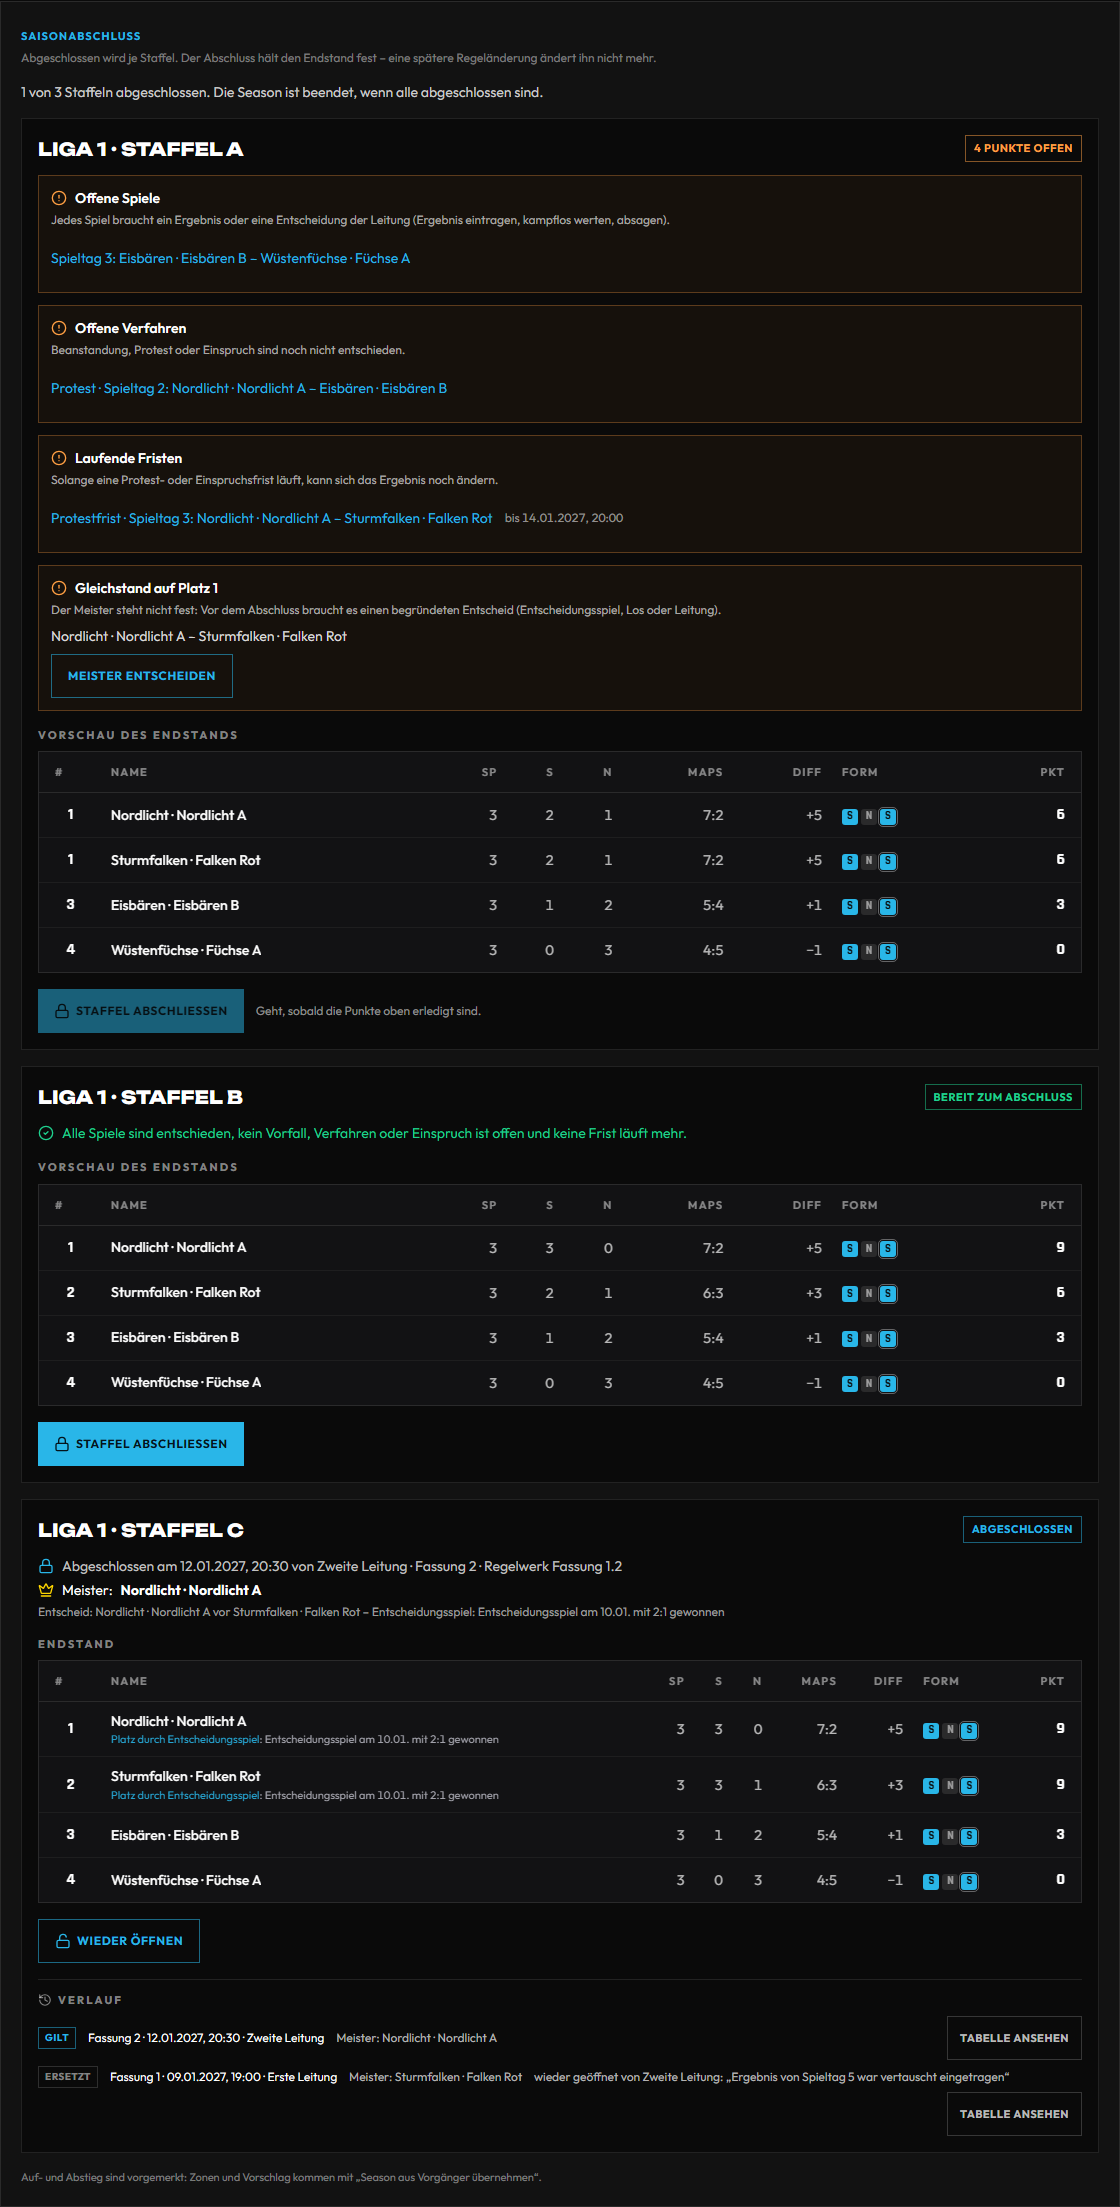
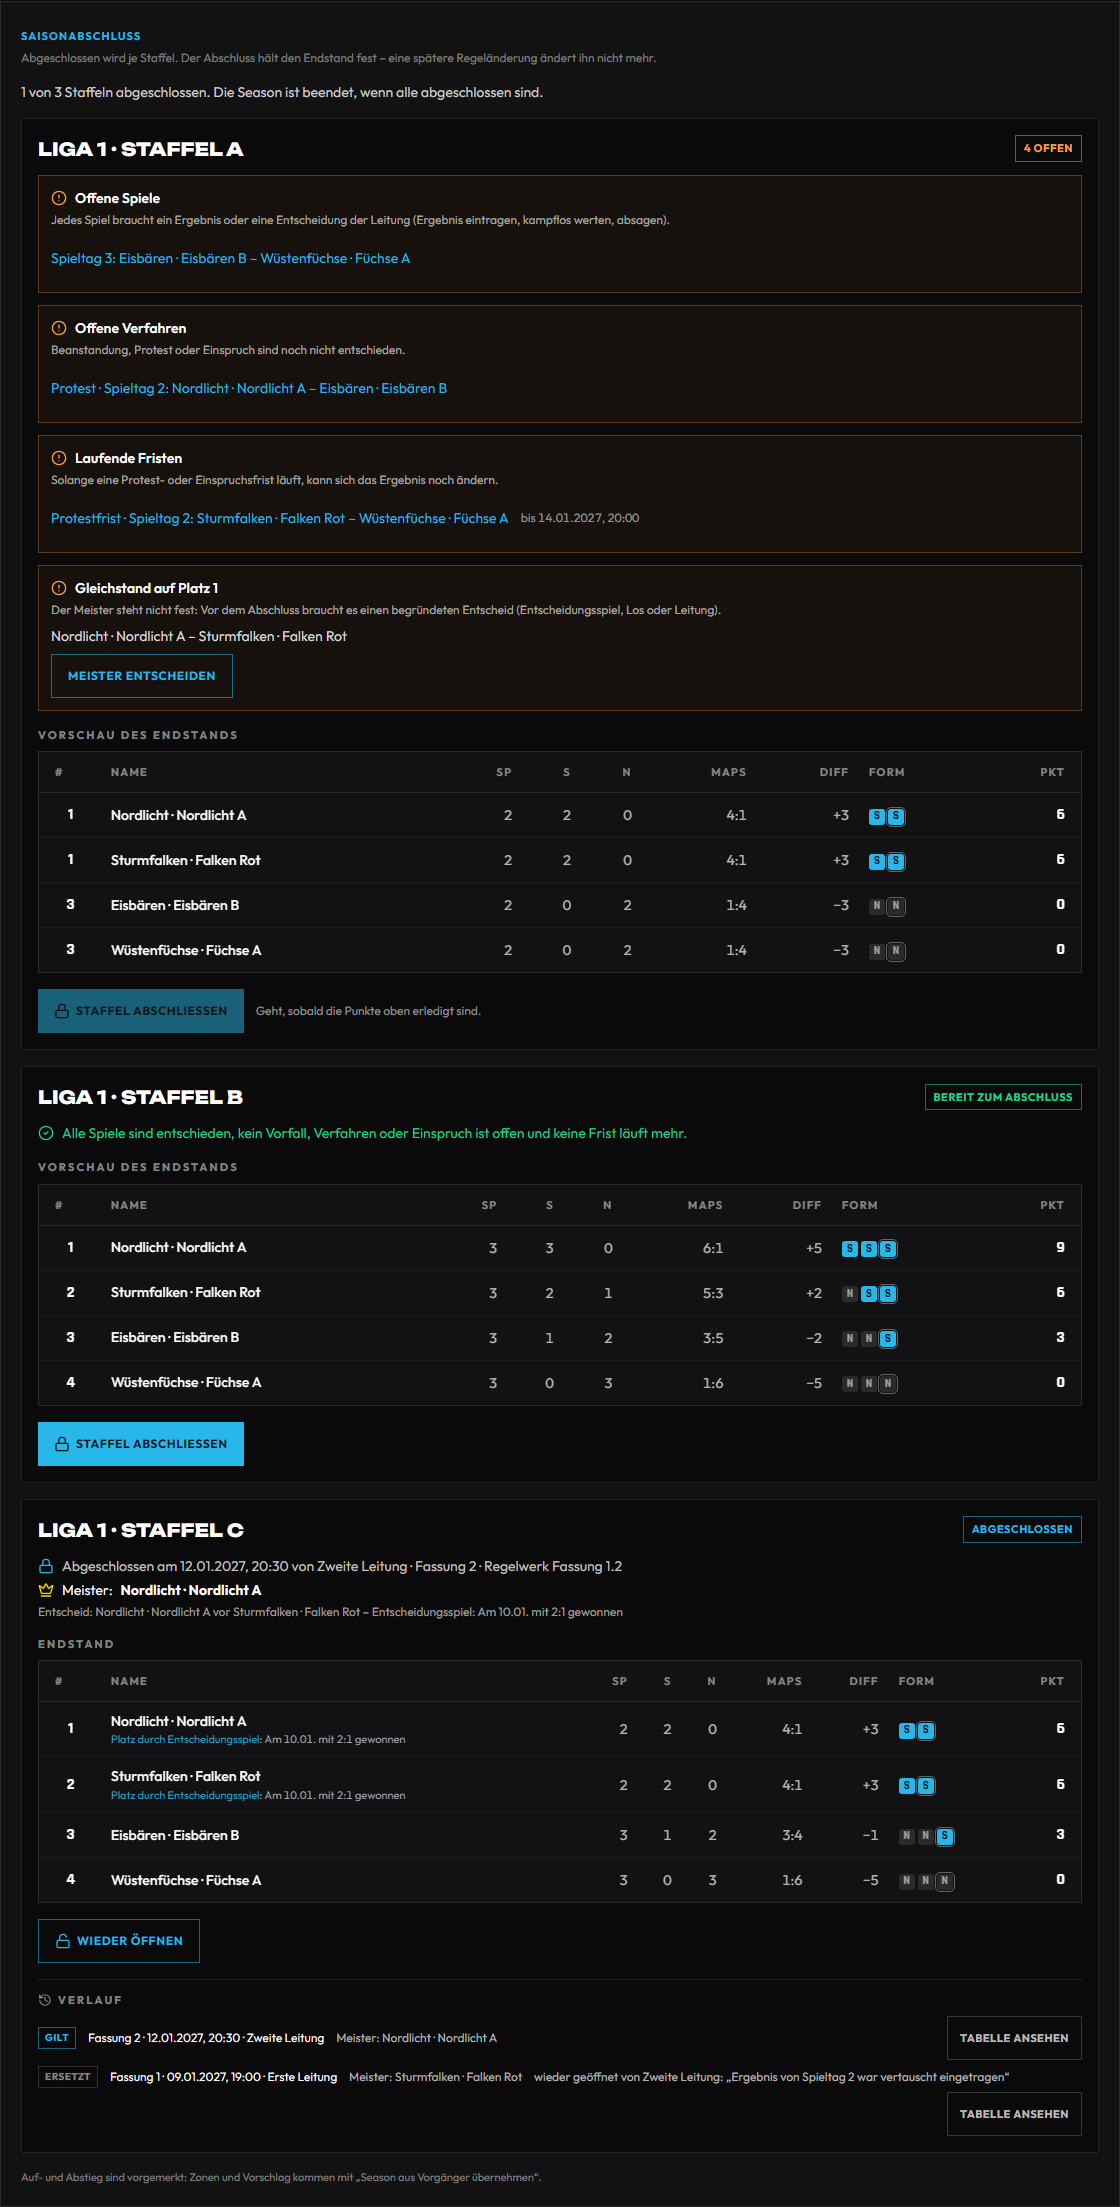
test: stimmige Beispieldaten im Abschluss-Cockpit, Handbuchbild neu (#1645)
Spiele, Siege, Niederlagen, Punkte und Form passen zueinander, der Entscheid nennt das 2:1.

diff --git a/frontend/e2e/league-final.spec.js b/frontend/e2e/league-final.spec.js
@@ -12,13 +12,22 @@ const consent = () => {
 };
 
 const TEAMS = ["Nordlicht · Nordlicht A", "Sturmfalken · Falken Rot", "Eisbären · Eisbären B", "Wüstenfüchse · Füchse A"];
-const row = (index, extra = {}) => ({ registration_id: `r${index}`, display_name: TEAMS[index - 1], team_id: `team-${index}`, rank: index, played: 3, won: 4 - index, drawn: 0,
-  lost: index - 1, score_for: 8 - index, score_against: index + 1, score_diff: 7 - 2 * index, points: 12 - 3 * index, form: ["W", "L", "W"], previous_rank: null,
-  forfeit_won: 0, forfeit_lost: 0, deducted_points: 0, exit: null, tiebreak: null, lead_decision: null, contested: 0, ...extra });
-const ROWS = [row(1), row(2), row(3), row(4)];
-const DECISION = { id: "d1", reason: "Entscheidungsspiel am 10.01. mit 2:1 gewonnen", method: "playoff", decided_at: "2027-01-10T20:00:00+00:00" };
-const TIED = [row(1, { points: 6, won: 2, lost: 1 }), row(2, { rank: 1, points: 6, won: 2, lost: 1, score_for: 7, score_against: 2, score_diff: 5 }), row(3), row(4)];
-const DECIDED = [row(1, { tiebreak: "lead_decision", lead_decision: DECISION }), row(2, { tiebreak: "lead_decision", lead_decision: DECISION, points: 9, won: 3 }), row(3), row(4)];
+// Jede Zeile aus ihren Spielen gerechnet (Best of 3, Sieg 3 Punkte, kein Remis): SP = S + N, Punkte = 3 × S, Maps und Form passen dazu.
+const row = (index, rank, won, lost, mapsFor, mapsAgainst, form, extra = {}) => ({ registration_id: `r${index}`, display_name: TEAMS[index - 1], team_id: `team-${index}`,
+  rank, played: won + lost, won, drawn: 0, lost, score_for: mapsFor, score_against: mapsAgainst, score_diff: mapsFor - mapsAgainst, points: won * 3, form,
+  previous_rank: null, forfeit_won: 0, forfeit_lost: 0, deducted_points: 0, exit: null, tiebreak: null, lead_decision: null, contested: 0, ...extra });
+// Staffel B, alles gespielt: 1 schlägt 2 (2:1), 3 (2:0), 4 (2:0); 2 schlägt 3 (2:1), 4 (2:0); 3 schlägt 4 (2:1).
+const ROWS = [row(1, 1, 3, 0, 6, 1, ["W", "W", "W"]), row(2, 2, 2, 1, 5, 3, ["L", "W", "W"]), row(3, 3, 1, 2, 3, 5, ["L", "L", "W"]), row(4, 4, 0, 3, 1, 6, ["L", "L", "L"])];
+const DECISION = { id: "d1", reason: "Am 10.01. mit 2:1 gewonnen", method: "playoff", decided_at: "2027-01-10T20:00:00+00:00" };
+// Staffel A: Das Spiel 1 gegen 2 fiel aus. 1 schlägt 3 (2:0) und 4 (2:1), 2 schlägt 3 (2:1) und 4 (2:0) - beide stehen in allem gleich.
+// 3 gegen 4 ist noch offen.
+const TIED = [row(1, 1, 2, 0, 4, 1, ["W", "W"]), row(2, 1, 2, 0, 4, 1, ["W", "W"]), row(3, 3, 0, 2, 1, 4, ["L", "L"]), row(4, 3, 0, 2, 1, 4, ["L", "L"])];
+// Staffel C: wie A, dazu 3 schlägt 4 (2:0) - das Entscheidungsspiel 2:1 machte 1 zum Meister.
+const DECIDED = [row(1, 1, 2, 0, 4, 1, ["W", "W"], { tiebreak: "lead_decision", lead_decision: DECISION }),
+  row(2, 2, 2, 0, 4, 1, ["W", "W"], { tiebreak: "lead_decision", lead_decision: DECISION }),
+  row(3, 3, 1, 2, 3, 4, ["L", "L", "W"]), row(4, 4, 0, 3, 1, 6, ["L", "L", "L"])];
+// Fassung 1 von Staffel C: Spieltag 2 war vertauscht eingetragen (4 schlägt 1 mit 2:1 statt umgekehrt) - damals stand 2 allein vorn.
+const FIRST_VERSION = [row(2, 1, 2, 0, 4, 1, ["W", "W"]), row(1, 2, 1, 1, 3, 2, ["W", "L"]), row(3, 3, 1, 2, 3, 4, ["L", "L", "W"]), row(4, 4, 1, 2, 2, 5, ["L", "W", "L"])];
 const RULES = { allow_draws: false, tiebreakers: ["head_to_head", "score_diff", "score_for", "lead_decision"], match_points: { win: 3, draw: 0, loss: 0 }, match_points_mode: "result" };
 
 const ADMIN = { id: "admin-1", username: "leitung", display_name: "Leitung", role: "superadmin", areas: ["tournaments", "leagues"], mfa_enabled: true, auth_mfa_verified: true };
@@ -44,7 +53,7 @@ const FINAL = { id: "f2", version: 2, closed_at: "2027-01-12T19:30:00+00:00", cl
 const HISTORY = [
   { id: "f2", version: 2, active: true, closed_at: "2027-01-12T19:30:00+00:00", closed_by_name: "Zweite Leitung", reopened_at: null, champion: TEAMS[0], teams: 4, rules_label: "Fassung 1.2" },
   { id: "f1", version: 1, active: false, closed_at: "2027-01-09T18:00:00+00:00", closed_by_name: "Erste Leitung", reopened_at: "2027-01-10T09:15:00+00:00",
-    reopened_by_name: "Zweite Leitung", reopen_reason: "Ergebnis von Spieltag 5 war vertauscht eingetragen", champion: TEAMS[1], teams: 4, rules_label: "Fassung 1.2" },
+    reopened_by_name: "Zweite Leitung", reopen_reason: "Ergebnis von Spieltag 2 war vertauscht eingetragen", champion: TEAMS[1], teams: 4, rules_label: "Fassung 1.2" },
 ];
 const base = (letter, extra) => ({ tournament_id: `t${letter}`, title: `Probe-Liga · Season 1 · Liga 1 · Staffel ${letter}`, slug: `probe-${letter.toLowerCase()}`, staffel: letter,
   division_label: "Liga 1", status: "live", champion_place: true, own_team: false, history: [], closed: false, final: null, standings: ROWS, table_rules: RULES,
@@ -57,7 +66,7 @@ const BLOCKED = base("A", { can_close: false, champion: null, standings: TIED,
     { code: "procedures", label: "Offene Verfahren", count: 1, text: "Beanstandung, Protest oder Einspruch sind noch nicht entschieden.",
       items: [{ text: `Protest · Spieltag 2: ${TEAMS[0]} – ${TEAMS[2]}`, url: "/matches/m4#verfahren-p1" }] },
     { code: "deadlines", label: "Laufende Fristen", count: 1, text: "Solange eine Protest- oder Einspruchsfrist läuft, kann sich das Ergebnis noch ändern.",
-      items: [{ text: `Protestfrist · Spieltag 3: ${TEAMS[0]} – ${TEAMS[1]}`, url: "/matches/m8", until: "2027-01-14T19:00:00+00:00" }] },
+      items: [{ text: `Protestfrist · Spieltag 2: ${TEAMS[1]} – ${TEAMS[3]}`, url: "/matches/m8", until: "2027-01-14T19:00:00+00:00" }] },
     { code: "champion_tie", label: "Gleichstand auf Platz 1", count: 1,
       text: "Der Meister steht nicht fest: Vor dem Abschluss braucht es einen begründeten Entscheid (Entscheidungsspiel, Los oder Leitung).",
       items: [{ text: `${TEAMS[0]} – ${TEAMS[1]}`, url: "/admin/leagues/seasons/s1#abschluss" }] },
@@ -95,7 +104,7 @@ async function mockServer(page, { admin = false, closing = CLOSING } = {}) {
   await page.route("**/api/leagues/probe-liga/season-1/staffeln/**", json(PUBLIC_STAFFEL));
   await page.route("**/api/admin/leagues/seasons/s1", json(SEASON_PAGE));
   await page.route("**/api/admin/leagues/seasons/s1/closing", json(closing));
-  await page.route("**/api/admin/leagues/staffeln/*/final-tables/*", json({ ...HISTORY[1], standings: ROWS, decisions: [], table_rules: RULES }));
+  await page.route("**/api/admin/leagues/staffeln/*/final-tables/*", json({ ...HISTORY[1], standings: FIRST_VERSION, decisions: [], table_rules: RULES }));
 }
 
 async function noSideScroll(page) {
@@ -122,7 +131,7 @@ test.describe("Liga: Saisonabschluss", () => {
       await expect(panel.getByTestId("season-close-summary")).toHaveText("1 von 3 Staffeln abgeschlossen. Die Season ist beendet, wenn alle abgeschlossen sind.");
 
       const blocked = panel.getByTestId("close-staffel-tA");
-      await expect(blocked.getByTestId("close-state-tA")).toHaveText("4 Punkte offen");
+      await expect(blocked.getByTestId("close-state-tA")).toHaveText("4 offen");
       await expect(blocked.getByRole("link", { name: `Spieltag 3: ${TEAMS[2]} – ${TEAMS[3]}` })).toHaveAttribute("href", "/matches/m9");
       await expect(blocked.getByTestId("close-blocker-tA-deadlines")).toContainText("bis 14.01.2027, 20:00");
       await expect(blocked.getByTestId("close-decide-tA")).toBeVisible();
@@ -135,14 +144,16 @@ test.describe("Liga: Saisonabschluss", () => {
       const closed = panel.getByTestId("close-staffel-tC");
       await expect(closed.getByTestId("close-final-tC")).toContainText("Abgeschlossen am 12.01.2027, 20:30 von Zweite Leitung · Fassung 2");
       await expect(closed.getByTestId("close-final-tC")).toContainText(`Meister: ${TEAMS[0]}`);
-      await expect(closed.getByTestId("close-final-tC")).toContainText("Entscheidungsspiel: Entscheidungsspiel am 10.01. mit 2:1 gewonnen");
+      await expect(closed.getByTestId("close-final-tC")).toContainText("Entscheidungsspiel: Am 10.01. mit 2:1 gewonnen");
       await expect(closed.getByTestId("standing-notes-r1")).toContainText("Platz durch Entscheidungsspiel");
-      await expect(closed.getByTestId("close-history-tC")).toContainText("Ergebnis von Spieltag 5 war vertauscht eingetragen");
+      await expect(closed.getByTestId("close-history-tC")).toContainText("Ergebnis von Spieltag 2 war vertauscht eingetragen");
       await noSideScroll(page);
       await shot(panel, `f1-cockpit-${width}`);
 
       await closed.getByTestId("close-version-tC-1").click();
-      await expect(page.getByTestId("version-sheet").getByRole("table", { name: "Endstand Fassung 1" })).toBeVisible();
+      const version = page.getByTestId("version-sheet").getByRole("table", { name: "Endstand Fassung 1" });
+      await expect(version).toBeVisible();
+      await expect(version.getByRole("row").nth(1)).toContainText(TEAMS[1]);
       await noSideScroll(page);
     });
 
@@ -167,10 +178,10 @@ test.describe("Liga: Saisonabschluss", () => {
       await page.getByTestId("close-decide-tA").click();
       const decide = page.getByTestId("table-decision-sheet");
       await decide.getByTestId("table-decision-method").selectOption("playoff");
-      await decide.getByTestId("table-decision-reason").fill("Entscheidungsspiel am 10.01. mit 2:1 gewonnen");
+      await decide.getByTestId("table-decision-reason").fill("Am 10.01. mit 2:1 gewonnen");
       await noSideScroll(page);
       await decide.getByTestId("table-decision-save").click();
-      await expect.poll(() => sent.decision).toEqual({ registration_ids: ["r1", "r2"], reason: "Entscheidungsspiel am 10.01. mit 2:1 gewonnen", method: "playoff" });
+      await expect.poll(() => sent.decision).toEqual({ registration_ids: ["r1", "r2"], reason: "Am 10.01. mit 2:1 gewonnen", method: "playoff" });
 
       await page.getByTestId("close-button-tB").click();
       const sheet = page.getByTestId("close-sheet");
@@ -184,9 +195,9 @@ test.describe("Liga: Saisonabschluss", () => {
       const reopen = page.getByTestId("reopen-sheet");
       await reopen.getByTestId("reopen-confirm").click();
       expect(sent.reopen).toBeUndefined();
-      await reopen.getByTestId("reopen-reason").fill("Ergebnis von Spieltag 5 war vertauscht");
+      await reopen.getByTestId("reopen-reason").fill("Ergebnis von Spieltag 2 war vertauscht");
       await reopen.getByTestId("reopen-confirm").click();
-      await expect.poll(() => sent.reopen).toEqual({ reason: "Ergebnis von Spieltag 5 war vertauscht" });
+      await expect.poll(() => sent.reopen).toEqual({ reason: "Ergebnis von Spieltag 2 war vertauscht" });
     });
 
     test(`Ligaseite bei ${width} px: abgeschlossene Staffel zeigt Endstand und Meister`, async ({ page }) => {
@@ -196,7 +207,7 @@ test.describe("Liga: Saisonabschluss", () => {
       const staffel = page.getByTestId("league-staffel-A");
       await expect(staffel.getByTestId("league-final-A")).toHaveText("Endstand · abgeschlossen am 12.01.2027");
       await expect(staffel.getByTestId("league-champion-A")).toContainText(`Meister ${TEAMS[0]}`);
-      await expect(staffel.getByTestId("standing-notes-r1")).toContainText("Platz durch Entscheidungsspiel: Entscheidungsspiel am 10.01. mit 2:1 gewonnen");
+      await expect(staffel.getByTestId("standing-notes-r1")).toContainText("Platz durch Entscheidungsspiel: Am 10.01. mit 2:1 gewonnen");
       await noSideScroll(page);
       await shot(staffel.locator(".tls-league-table"), `f1-endstand-oeffentlich-${width}`);
     });
